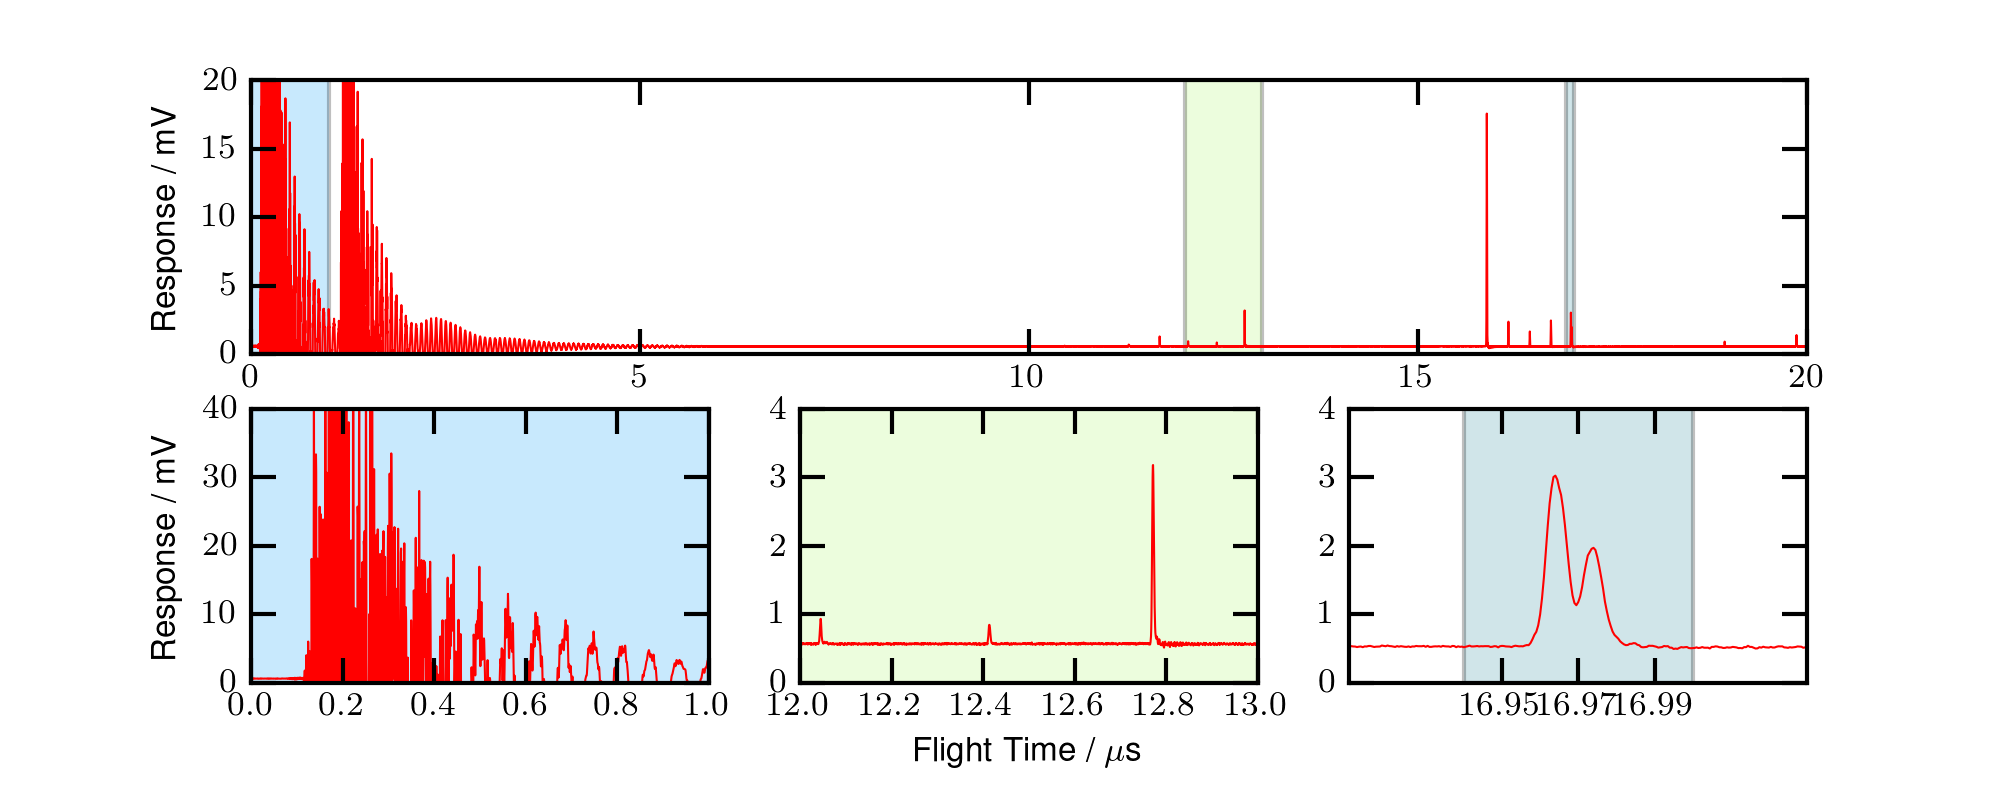
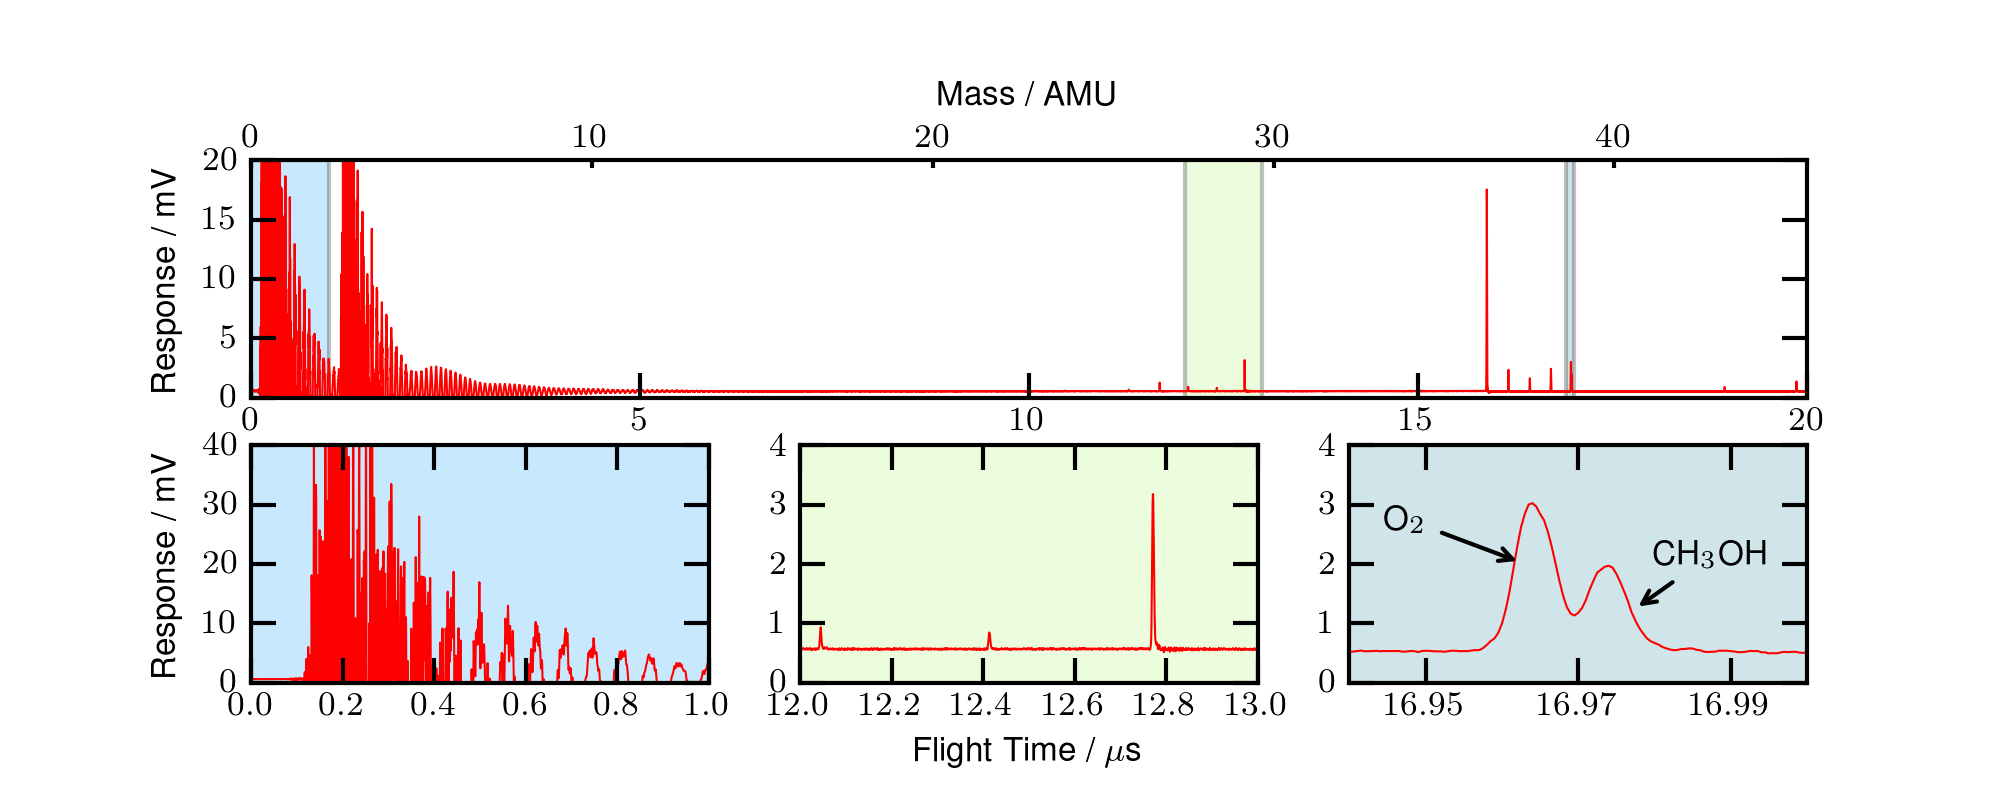
Improvements on the raw-data figure. Something wrong with x-scale...

diff --git a/python_figures/tof_raw.py b/python_figures/tof_raw.py
@@ -16,6 +16,18 @@ except:
 
 cursor = db.cursor()
 
+#SOMETHING WRONG WITH THE X-SCALE!!!!
+
+#Mass of methanol: 32.0262147
+#Mass of oxygen: 31.9898292
+def TimeToMass(time):
+    #time = 2.9870925856 * mass^0.497621653202
+    #corr_time = time - 0.183  #Approximate delay - not optimized for this spectrum
+    mass = (time / 2.9870925856)**(1.0/0.497621653202)
+    #mass = mass - 0.413085820678 # Approximate value, not optimized for this spectrum
+    return mass
+
+print TimeToMass(20)
 data = {}
 #Methanol + oxygen
 cursor.execute("SELECT x*1000000,y*1000 FROM xy_values_tof where measurement = 170")
@@ -24,8 +36,11 @@ data['ch'] = np.array(cursor.fetchall())
 axis_array = []
 fig = plt.figure()
 fig.subplots_adjust(bottom=0.15) # Make room for x-label
+fig.subplots_adjust(top=0.8) # Make room for extra x-label
 
 LINEWIDTH = 0.5
+arrow = dict(facecolor='black',arrowstyle='->')
+font = 8
 
 ratio = 0.4                     # This figure should be very wide to span two columns
 fig_width = 17
@@ -39,8 +54,26 @@ gs.update(wspace=0.2,hspace=0.2)
 axis = plt.subplot(gs[0, :])
 
 axis.plot(data['ch'][:,0], data['ch'][:,1], 'r-',linewidth=LINEWIDTH)
+#xticks = range(0,20,4)
+#axis.set_xticks((xticks))
 axis.set_ylim(0,20)
 axis.set_xlim(0,20)
+
+
+
+axis3 = axis.twiny()
+axis3.plot(TimeToMass(data['ch'][:,0]),data['ch'][:,0]*0,'w-',linewidth=0) #Hack to create an invisible set on the extra x-axis
+axis3.set_xlim(TimeToMass(0),TimeToMass(20))
+#axis3.set_xticks((12.41,12.42,12.43,12.44))    
+axis3.set_xlabel('Mass / AMU', fontsize=8)
+axis3.tick_params(direction='in', length=2, width=1, colors='k',labelsize=8,axis='both',pad=3)
+#xticks = range(0,50,5)
+#axis3.set_xticks((xticks))
+axis3.ticklabel_format(useOffset=False)
+
+axis.set_ylim(0,20)
+axis3.set_ylim(0,20)
+
 
 p = axis.axvspan(0, 1, facecolor='#26aaf7', alpha=0.25)
 p = axis.axvspan(12, 13, facecolor='#b6fa77', alpha=0.25)
@@ -81,9 +114,13 @@ axis.set_yticks((0,1,2,3,4))
 axis.set_xticks((16.95,16.97,16.99))
 axis.plot(data['ch'][:,0], data['ch'][:,1], 'r-',linewidth=LINEWIDTH)
 p = axis.axvspan(16.94, 17, facecolor='#4599a7', alpha=0.25)
-axis.set_xlim(16.91,17.03)
+axis.set_xlim(16.94,17)
 axis.set_ylim(0,4)
 axis.tick_params(direction='in', length=6, width=1, colors='k',labelsize=8,axis='both',pad=3)
+axis.ticklabel_format(useOffset=False)
+
+axis.annotate('O$_2$', xy=(16.963, 2),  xycoords='data', xytext=(16.95, 3), textcoords='data', arrowprops=arrow, horizontalalignment='right', verticalalignment='top',fontsize=font,)
+axis.annotate('CH$_3$OH', xy=(16.977, 1.2),  xycoords='data', xytext=(16.995, 2.4), textcoords='data', arrowprops=arrow, horizontalalignment='right', verticalalignment='top',fontsize=font,)
 
 
 
